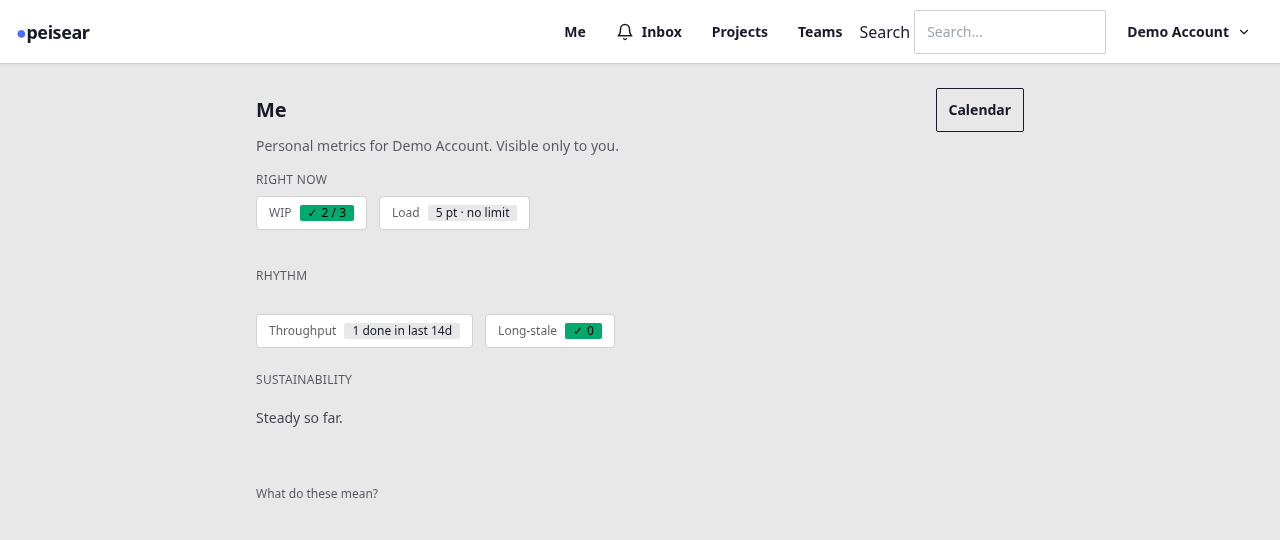
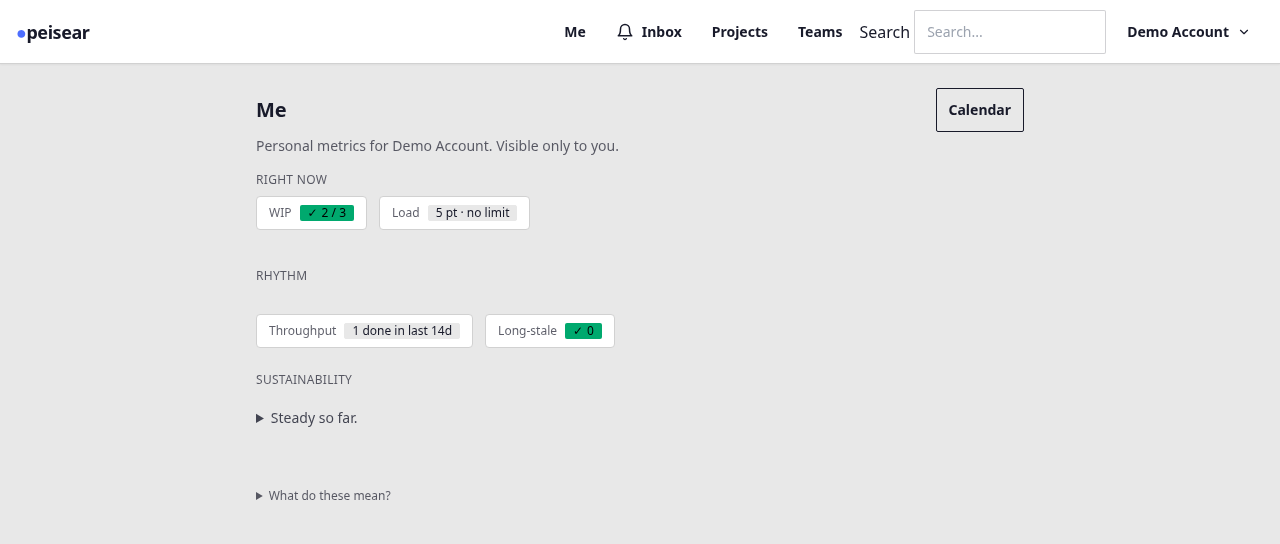
MARK-001: the other six
Six <summary> elements still took grow_text(), which appends
inline-flex items-center and suppresses the native display: list-item
a <summary> needs for its own ::marker to exist -- settings.rs's two
(add-a-capacity-row, the points-edit dropdown), sprints.rs's two
(velocity and burndown chart-table toggles), me.rs's two (/today's
"What do these mean?" and the Sustainability summary). Switched all
six to grow() plus a symmetric py-* class reaching the context's own
line-height, DISC-001's shape, each with its own arithmetic stated in
a comment.

alignment_scan's is_padding_centred_disclosure widened from a literal
two-suffix list to the property it always stood for (tag == summary
with a py-* class), per the handoff's own instruction: four of these
six sites don't share either of DISC-001's two literal suffixes, and
nine call sites is where a literal list stops being "a handful". Safe
because it's only reached after the flex-container/form-control/
block-box clauses already rule out the sites that would otherwise be
wrongly exempted by a bare py-* check (teams.rs, notification_
preferences.rs, settings.rs's close-button dropdown -- all literal
flex/btn, not this shape).

New guard, the point of the round: alignment_scan::tests::
no_summary_composes_grow_text, a source scan that cannot pass while
any <summary> in src/components/ still reaches grow_text(. Planted
(put grow_text( back on one site) and confirmed it fails by name.
[…]

diff --git a/crates/peisear-web/src/alignment_scan.rs b/crates/peisear-web/src/alignment_scan.rs
@@ -73,19 +73,34 @@
 //! correct because the padding itself, not a flex box, supplies the
 //! centring." [`is_padding_centred_disclosure`] is that fourth name,
 //! kept as narrow as [`is_named_escalation_exclusion`] in the sibling
-//! guard it mirrors: three exact call sites, not a blanket exemption
-//! for every `<summary>` — a future `<summary>` reaching `grow()` with
-//! `min-h-11` alone and no padding would still have `DOC-005` §1's own
-//! defect (text sitting at a `min-height` box's top, no flex to centre
-//! it), so this needs the same per-site verification the `let`-bound
-//! sites above already get, not a tag-wide pass.
+//! guard it mirrors at `DISC-001`: three exact call sites, not a
+//! blanket exemption for every `<summary>`.
 //!
-//! **Verified, not assumed**: a real render shows the marker and the
-//! text sharing one visual line, centred in the row — `py-3`/`py-4`'s
-//! own arithmetic (`components/issues.rs`'s own comments at each site)
-//! make the padded box's total height exactly the padding plus the
-//! context's own line-height, so there is no excess `min-height` space
-//! left for the text to float inside.
+//! **`MARK-001` (`061`) took the same shape to six more sites and hit
+//! the limit `DISC-001`'s own comment named in advance.** Four of the
+//! six do not share either of `DISC-001`'s two literal padding
+//! suffixes — each carries its own text-size/padding combination
+//! (`settings.rs`'s two sites, `me.rs`'s two). Nine call sites sharing
+//! one property (a `<summary>`'s `grow(...)` carries a symmetric
+//! `py-*` class) is where a literal list stops being *"a handful"* and
+//! the function was rewritten to check the property itself rather than
+//! enumerate its instances — still reached only after the other three
+//! clauses rule out a flex container, form control or block box, which
+//! is what keeps the property from wrongly waving through the sites
+//! that merely happen to carry a `py-*` token alongside `flex` or
+//! `btn` (`teams.rs`, `notification_preferences.rs`, `settings.rs`'s
+//! close-button dropdown — found while measuring for `MARK-001`,
+//! reported rather than folded in since their own fix is a real
+//! flex-row layout or a daisyUI component class, not this shape).
+//!
+//! **Verified, not assumed, at every site**: a real render shows the
+//! marker and the text sharing one visual line, centred in the row —
+//! `py-3`/`py-4`'s own arithmetic (stated in a comment at each call
+//! site) makes the padded box's total height exactly the padding plus
+//! the context's own line-height, so there is no excess `min-height`
+//! space left for the text to float inside. This holds independently
+//! for all nine sites this function now recognises, not only the
+//! three it originally named.
 
 use std::fs;
 use std::path::{Path, PathBuf};
@@ -249,21 +264,37 @@ fn already_establishes_a_block_box(content: &str) -> bool {
         .any(|cls| cls == "block" || cls == "card")
 }
 
-/// `DISC-001`: the three `<summary>` call sites in
-/// `components/issues.rs` this round moved from `grow_text(...)` to
-/// `grow(...)` so their native `list-item` display (and `::marker`)
-/// survives — centred by padding reaching the context's own
-/// line-height exactly, not by `grow_text`'s `inline-flex
-/// items-center`, which would undo the very marker this round
-/// restores. Keyed on each site's own exact padding suffix, which no
-/// other `grow(...)` call site in this tree shares. Closing this is
-/// the same kind of decision closing
-/// [`is_named_escalation_exclusion`] is in the sibling guard — a
-/// verified, per-site call, not this scan's to make by itself.
+/// `DISC-001` and `MARK-001`: a `<summary>` whose `grow(...)` call
+/// carries a symmetric `py-*` class is centred by that padding reaching
+/// the context's own line-height exactly, not by `grow_text`'s
+/// `inline-flex items-center`, which would undo the native `list-item`
+/// display (and `::marker`) this shape exists to keep. `DISC-001`
+/// started this as a **literal list of two exact padding suffixes**,
+/// kept as narrow as [`is_named_escalation_exclusion`] on purpose —
+/// three call sites, not a property. `MARK-001` added six more, four of
+/// which do not share either literal suffix (`settings.rs`'s two, and
+/// `me.rs`'s two, each carry their own distinct padding/text-size
+/// combination), so the literal list stopped describing the real
+/// population at exactly the point its own doc comment named: *"a
+/// sixth such binding would need the same verification, not an
+/// extension to this scan, unless it stops being a handful."* Nine
+/// call sites is where it stops being a handful.
+///
+/// **Replaced the list with the property it always stood for**: any
+/// `<summary>` whose `grow(...)` class carries a `py-*` token. This is
+/// safe precisely because it is reached only when the call site is
+/// *not already* a flex container, form control or block box (this
+/// scan's other three clauses, checked first) — the sites this
+/// property would wrongly wave through if checked alone (`teams.rs`,
+/// `notification_preferences.rs`, both `flex flex-row`; `settings.rs`'s
+/// close-button dropdown, `btn btn-ghost btn-xs`) are already exempted
+/// by `is_flex_container` before this function is ever asked. Each of
+/// the nine sites this property now covers was still verified
+/// individually by a real render before being built, exactly as
+/// `DISC-001` did — this change widens what the guard can *recognise*,
+/// not what a contributor may build without checking.
 fn is_padding_centred_disclosure(tag: &str, content: &str) -> bool {
-    tag == "summary"
-        && (content.ends_with("hover:text-base-content py-3")
-            || content.ends_with("hover:text-base-content py-4"))
+    tag == "summary" && content.split_whitespace().any(|cls| cls.starts_with("py-"))
 }
 
 const FORM_CONTROL_TAGS: [&str; 3] = ["input", "select", "textarea"];

diff --git a/crates/peisear-web/src/alignment_scan/tests.rs b/crates/peisear-web/src/alignment_scan/tests.rs
@@ -40,8 +40,9 @@ fn every_grow_call_site_is_a_form_control_or_already_a_flex_container() {
                 offenders.push(format!(
                     "{}:{line}: <{tag}> class={content:?} composes grow(), but is \
                      neither a form control, already a flex container, already a \
-                     block box (`block`/`card`), nor a named padding-centred \
-                     disclosure (`DISC-001`, is_padding_centred_disclosure) -- use \
+                     block box (`block`/`card`), nor a padding-centred disclosure \
+                     (`DISC-001`/`MARK-001`, is_padding_centred_disclosure -- a \
+                     <summary> whose grow() carries a symmetric py-* class) -- use \
                      grow_text() instead",
                     path.display()
                 ));
@@ -52,11 +53,11 @@ fn every_grow_call_site_is_a_form_control_or_already_a_flex_container() {
     assert!(
         offenders.is_empty(),
         "every components::grow(...) call site in src/components/ must already be \
-         a flex container, a form control, or (as of DISC-001) a named \
-         padding-centred <summary> (NFR-A11Y-007, DEC-049 as amended by DOC-005 \
-         §3.1, DISC-001) -- a plain text element reaching grow() directly with \
-         none of those, rather than components::grow_text(), reproduces DOC-005 \
-         §1's alignment defect:\n{}",
+         a flex container, a form control, or a padding-centred <summary> \
+         (NFR-A11Y-007, DEC-049 as amended by DOC-005 §3.1, DISC-001, MARK-001) \
+         -- a plain text element reaching grow() directly with none of those, \
+         rather than components::grow_text(), reproduces DOC-005 §1's alignment \
+         defect:\n{}",
         offenders
             .iter()
             .map(|o| format!("  {o}"))
@@ -104,6 +105,63 @@ fn no_grow_text_call_site_is_a_form_control() {
         "no <input>/<select>/<textarea> in src/components/ may compose \
          components::grow_text(...) (DOC-005 §2/§3.1: inline-flex is meaningless \
          at best on a form control's native centring):\n{}",
+        offenders
+            .iter()
+            .map(|o| format!("  {o}"))
+            .collect::<Vec<_>>()
+            .join("\n")
+    );
+}
+
+/// `MARK-001` (`061`, `§10.58`) -- the guard this round exists to ship.
+/// `grow_text()` appends `inline-flex items-center` unconditionally,
+/// which suppresses a `<summary>`'s native `display: list-item` and
+/// the `::marker` box that depends on it. This scan cannot pass while
+/// any `<summary>` in `src/components/` still reaches `grow_text(`,
+/// which is exactly the property `DISC-001` found missing: a source
+/// scan can see which helper a call site took, even though it cannot
+/// see the computed style a browser resolves from it.
+#[test]
+fn no_summary_composes_grow_text() {
+    let manifest_dir = Path::new(env!("CARGO_MANIFEST_DIR"));
+    let components_dir = manifest_dir.join("src").join("components");
+    let mut files = Vec::new();
+    collect_rs_files(&components_dir, &mut files);
+    assert!(
+        !files.is_empty(),
+        "found no .rs files under src/components/ -- the workspace layout \
+         assumption this scan depends on may have changed"
+    );
+
+    let mut offenders = Vec::new();
+    for path in &files {
+        let source =
+            fs::read_to_string(path).unwrap_or_else(|e| panic!("read {}: {e}", path.display()));
+        let stripped = strip_line_comments(&source);
+        for (quote_pos, _cs, _ce) in quoted_string_spans(&stripped) {
+            if !is_call_argument(&stripped, quote_pos, "grow_text") {
+                continue;
+            }
+            if let Some((tag, line)) = enclosing_tag(&stripped, quote_pos, "grow_text")
+                && tag == "summary"
+            {
+                offenders.push(format!(
+                    "{}:{line}: <summary> composes grow_text(), which adds \
+                     inline-flex unconditionally -- this suppresses the native \
+                     `display: list-item` a <summary> needs for its own \
+                     ::marker to exist at all (§10.58) -- use grow() with a \
+                     symmetric py-* class instead",
+                    path.display()
+                ));
+            }
+        }
+    }
+
+    assert!(
+        offenders.is_empty(),
+        "no <summary> in src/components/ may compose components::grow_text(...) \
+         (§10.58: grow_text()'s inline-flex removes a <summary>'s own disclosure \
+         marker, not merely its alignment):\n{}",
         offenders
             .iter()
             .map(|o| format!("  {o}"))

diff --git a/crates/peisear-web/src/components/settings.rs b/crates/peisear-web/src/components/settings.rs
@@ -24,9 +24,9 @@
 use axum::response::Html;
 use leptos::prelude::*;
 
+use super::grow;
 use super::layout::AppShell;
 use super::t;
-use super::{grow, grow_text};
 use peisear_core::{CurrentUser, personal_metrics::DEFAULT_WIP_LIMIT};
 use peisear_i18n::MessageKey;
 use peisear_storage::user_capacities::CapacityRow;
@@ -139,7 +139,14 @@ pub fn SettingsPage(
                         </div>
 
                         <details class="mt-2">
-                            <summary class=grow_text("cursor-pointer text-sm")>
+                            // MARK-001 (§10.58): grow() not grow_text() -- the
+                            // native `list-item` display (and its marker)
+                            // survives only without the `inline-flex`
+                            // grow_text() adds. py-3 = 24px + text-sm's own
+                            // 20px line-height = 44px exactly, same arithmetic
+                            // DISC-001 used for issues.rs's health/workload
+                            // summaries.
+                            <summary class=grow("cursor-pointer text-sm py-3")>
                                 {t(MessageKey::AddCapacityRowSummary)}
                             </summary>
                             <form method="post" action="/settings/capacity"
@@ -281,7 +288,13 @@ fn render_capacity_row(row: CapacityRow) -> impl IntoView {
         <tr aria-label=aria>
             <td>
                 <details class="dropdown">
-                    <summary class=grow_text("cursor-pointer")>
+                    // MARK-001 (§10.58): grow() not grow_text(), same reason
+                    // as this file's other summary above. No text-size class
+                    // here -- the ambient context is the enclosing
+                    // `table table-sm`, whose own rule sets font-size/
+                    // line-height to exactly text-sm's (20px), so the same
+                    // py-3 arithmetic applies.
+                    <summary class=grow("cursor-pointer py-3")>
                         <span class="font-medium">{row.points}</span>
                         {t(MessageKey::PointsUnitSuffix)}
                     </summary>

diff --git a/crates/peisear-web/src/components/sprints.rs b/crates/peisear-web/src/components/sprints.rs
@@ -432,7 +432,12 @@ fn render_velocity_chart(data: Vec<(Sprint, SprintSummary)>, show_median: bool) 
                     </svg>
                 </div>
                 <details class="text-xs mt-2">
-                    <summary class=grow_text("cursor-pointer text-base-content/70 hover:text-base-content")>
+                    // MARK-001 (§10.58): grow() not grow_text(), same
+                    // arithmetic and the same exact padding suffix
+                    // `is_padding_centred_disclosure` already recognises
+                    // from `issues.rs`'s Indicators summary (`DISC-001`) --
+                    // py-4 = 32px + text-xs's own 16px line-height = 48px.
+                    <summary class=grow("cursor-pointer text-base-content/70 hover:text-base-content py-4")>
                         {t(MessageKey::ChartTableSummaryLabel)}
                     </summary>
                     <div class="overflow-x-auto mt-1">
@@ -976,7 +981,12 @@ fn render_burndown(points: Vec<BurndownPoint>) -> impl IntoView {
                     </span>
                 </div>
                 <details class="text-xs mt-2">
-                    <summary class=grow_text("cursor-pointer text-base-content/70 hover:text-base-content")>
+                    // MARK-001 (§10.58): grow() not grow_text(), same
+                    // arithmetic and the same exact padding suffix
+                    // `is_padding_centred_disclosure` already recognises
+                    // from `issues.rs`'s Indicators summary (`DISC-001`) --
+                    // py-4 = 32px + text-xs's own 16px line-height = 48px.
+                    <summary class=grow("cursor-pointer text-base-content/70 hover:text-base-content py-4")>
                         {t(MessageKey::ChartTableSummaryLabel)}
                     </summary>
                     <div class="overflow-x-auto mt-1">

diff --git a/crates/peisear-web/src/components/me.rs b/crates/peisear-web/src/components/me.rs
@@ -11,7 +11,7 @@ use axum::response::Html;
 use leptos::prelude::*;
 
 use super::layout::AppShell;
-use super::{grow, grow_text, t};
+use super::{grow, t};
 use peisear_core::{
     CurrentUser, DisplayHealthState,
     personal_metrics::{
@@ -357,7 +357,12 @@ pub fn PersonalDashboard(
 
                 <section class="text-xs text-base-content/70">
                     <details>
-                        <summary class=grow_text("cursor-pointer")>{t(MessageKey::WhatDoTheseMeanLabel)}</summary>
+                        // MARK-001 (§10.58): grow() not grow_text() --
+                        // ambient context is this section's own text-xs
+                        // (16px line-height), so py-4 = 32px + 16px = 48px,
+                        // same arithmetic DISC-001 used for issues.rs's
+                        // Indicators summary.
+                        <summary class=grow("cursor-pointer py-4")>{t(MessageKey::WhatDoTheseMeanLabel)}</summary>
                         <div class="mt-2 space-y-2">
                             <p>
                                 <strong>{t(MessageKey::WipChipLabel)}</strong>
@@ -506,7 +511,9 @@ fn render_burnout_panel(
                 {sustainability_heading}
             </h2>
             <details open=any_watch>
-                <summary class=grow_text("cursor-pointer text-sm text-base-content/80 mb-2")>
+                // MARK-001 (§10.58): grow() not grow_text() -- text-sm's
+                // own 20px line-height + py-3's 24px = 44px exactly.
+                <summary class=grow("cursor-pointer text-sm text-base-content/80 mb-2 py-3")>
                     {summary}
                 </summary>
                 {has_streaks.then(|| view! {
